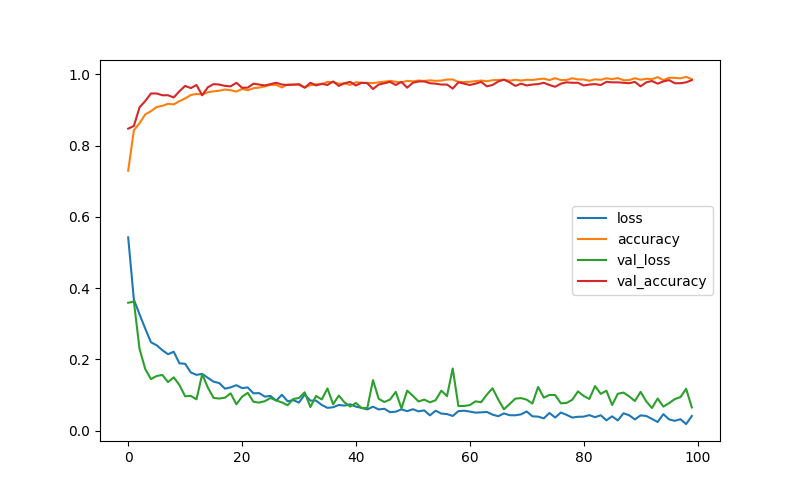
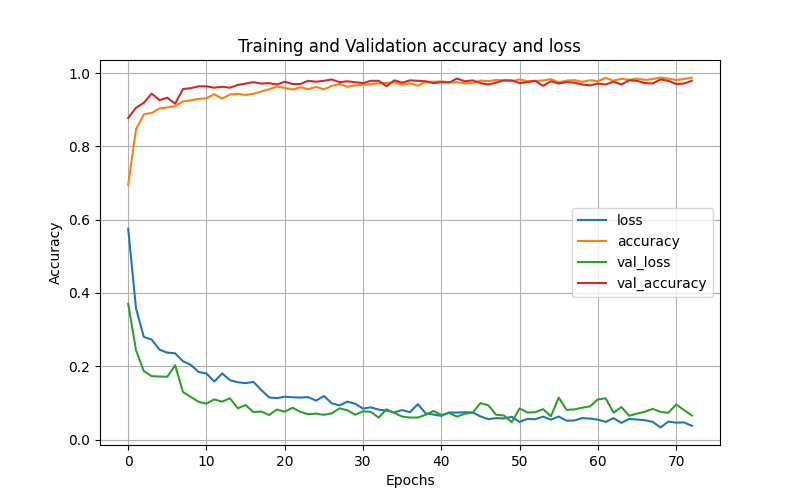
new dataset

diff --git a/training/trainer.py b/training/trainer.py
@@ -18,7 +18,8 @@ from resNet50 import resNet50
 modelName = "resNet50_1"
 # modelName = "maskdetection_1"
 
-dataset = "./dataset"
+dataset = "./data/dataset1"
+# dataset = "./data/dataset2"
 
 # Label and setup dataset
 imagePaths=list(paths.list_images(dataset))
@@ -26,9 +27,9 @@ data=[]
 labels=[]
 
 for i in imagePaths:
-    label=i.split(os.path.sep)[-2]
+    label = i.split(os.path.sep)[-2]
     labels.append(label)
-    image = load_img(i,target_size=(96,96))
+    image = load_img(i, target_size=(96,96))
     image = img_to_array(image)
     image = preprocess_input(image)
     data.append(image)
@@ -57,8 +58,7 @@ aug=ImageDataGenerator(
 
 # Build the model
 print('Build Model')
-
-# model = maskdetection(input_shape=(96, 96, 3))
+# model = maskDetection(input_shape=(96, 96, 3))
 model = resNet50(input_shape=(96, 96, 3))
 
 # Print model structure
@@ -73,7 +73,7 @@ opt = Adam(learning_rate=learningRate,decay=learningRate/epochs)
 model.compile(loss='binary_crossentropy',optimizer=opt,metrics=['accuracy'])
 
 # Early stopping and model checkpoint
-es = EarlyStopping(monitor='val_accuracy', mode='max', verbose=1, patience=20)
+es = EarlyStopping(monitor='val_accuracy', mode='max', verbose=1, patience=30)
 mc = ModelCheckpoint(os.path.join('../app/models', modelName+'.h5'), monitor='val_accuracy', mode='max', save_best_only=True)
 
 # Fit the model
@@ -87,6 +87,13 @@ history = model.fit(
     verbose=1
 )
 
+# Save the history
+# Load with history=np.load('my_history.npy',allow_pickle='TRUE').item()
+try:
+    np.save('modelName-history.npy',history.history)
+except Exception as e: 
+    print("np.save failure: " + str(e))
+
 # Print reports
 try:
     predict = model.predict(test_X,batch_size=bachSize)
@@ -96,39 +103,42 @@ try:
 except Exception as e: 
     print("Report failure: " + str(e))
 
-try:
-    scores = model.evaluate(test_X)
-    print("Evaluate:\n" + str(scores))
-except Exception as e: 
-    print("Evaluate failure: " + str(e))
-
 # Make training vs validation loss graphs
 try:
-    loss_train = history.history['loss']
-    loss_val = history.history['val_loss']
+    loss_train = history['loss']
+    loss_val = history['val_loss']
     plt.plot(loss_train, 'g', label='Training loss')
     plt.plot(loss_val, 'b', label='validation loss')
     plt.title('Training and Validation loss')
     plt.xlabel('Epochs')
     plt.ylabel('Loss')
     plt.legend()
+    plt.grid()
     plt.show()
     plt.savefig(modelName+'-TrainingLoss.png')
+    plt.clf()
 
     # Make training vs validation accuracy graphs
-    acc_train = history.history['accuracy']
-    acc_val = history.history['val_accuracy']
+    acc_train = history['accuracy']
+    acc_val = history['val_accuracy']
     plt.plot(acc_train, 'g', label='Training accuracy')
     plt.plot(acc_val, 'b', label='validation accuracy')
     plt.title('Training and Validation accuracy')
     plt.xlabel('Epochs')
     plt.ylabel('Accuracy')
     plt.legend()
+    plt.grid()
     plt.show()
     plt.savefig(modelName+'-TrainingAcc.png')
+    plt.clf()
 
     # Plot loss and accuracy on the same graph
-    pd.DataFrame(history.history).plot(figsize=(8,5))
+    pd.DataFrame(history).plot(figsize=(8,5))
+    plt.title('Training and Validation accuracy and loss')
+    plt.xlabel('Epochs')
+    plt.ylabel('Accuracy')
+    plt.legend()
+    plt.grid()
     plt.show()
     plt.savefig(modelName+'-LossAndAcc.png')
 except Exception as e: 

diff --git a/training/graph.py b/training/graph.py
@@ -1,0 +1,43 @@
+import matplotlib.pyplot as plt
+import numpy as np
+import pandas as pd
+
+modelName = "maskdetection_1"
+history=np.load(r'./graphs/maskdetection_1/modelName-history.npy',allow_pickle='TRUE').item()
+
+loss_train = history['loss']
+loss_val = history['val_loss']
+plt.plot(loss_train, 'g', label='Training loss')
+plt.plot(loss_val, 'b', label='validation loss')
+plt.title('Training and Validation loss')
+plt.xlabel('Epochs')
+plt.ylabel('Loss')
+plt.legend()
+plt.grid()
+plt.show()
+plt.savefig(modelName+'-TrainingLoss.png')
+plt.clf()
+
+# Make training vs validation accuracy graphs
+acc_train = history['accuracy']
+acc_val = history['val_accuracy']
+plt.plot(acc_train, 'g', label='Training accuracy')
+plt.plot(acc_val, 'b', label='validation accuracy')
+plt.title('Training and Validation accuracy')
+plt.xlabel('Epochs')
+plt.ylabel('Accuracy')
+plt.legend()
+plt.grid()
+plt.show()
+plt.savefig(modelName+'-TrainingAcc.png')
+plt.clf()
+
+# Plot loss and accuracy on the same graph
+pd.DataFrame(history).plot(figsize=(8,5))
+plt.title('Training and Validation accuracy and loss')
+plt.xlabel('Epochs')
+plt.ylabel('Accuracy')
+plt.legend()
+plt.grid()
+plt.show()
+plt.savefig(modelName+'-LossAndAcc.png')

diff --git a/testing/unfolder.py b/testing/unfolder.py
@@ -1,0 +1,14 @@
+import os
+import shutil
+from imutils import paths
+from pathlib import Path
+
+topfolder = "./data/dataset2"
+
+imagePaths=list(paths.list_images(topfolder))
+for i in imagePaths:
+    path = Path(i)
+    parentPath = Path(path.parent.absolute())
+    parentParentPath = str(parentPath.parent.absolute()) + "/" + i.split(os.path.sep)[-1]
+    print(parentParentPath)
+    shutil.move(str(i), parentParentPath)

diff --git a/app/mask_detect.py b/app/mask_detect.py
@@ -7,7 +7,7 @@ from tensorflow.keras.preprocessing.image import img_to_array
 from tensorflow.keras.models import load_model
 from retinaface_detect import detect_faces
 
-MODEL_PATH_1 = r'./models/maskdetection_1-v1.h5'
+MODEL_PATH_1 = r'./models/maskdetection_1.h5'
 MODEL_PATH_2 = r'./models/resNet50_1-v1.h5'
 
 

diff --git a/training/graphs/maskdetection_1/maskdetection_1-results.md b/training/graphs/maskdetection_1/maskdetection_1-results.md
@@ -1,0 +1,8 @@
+              precision    recall  f1-score   support
+
+   with_mask       0.99      0.96      0.98       400
+without_mask       0.96      0.99      0.98       400
+
+    accuracy                           0.98       800
+   macro avg       0.98      0.98      0.98       800
+weighted avg       0.98      0.98      0.98       800
